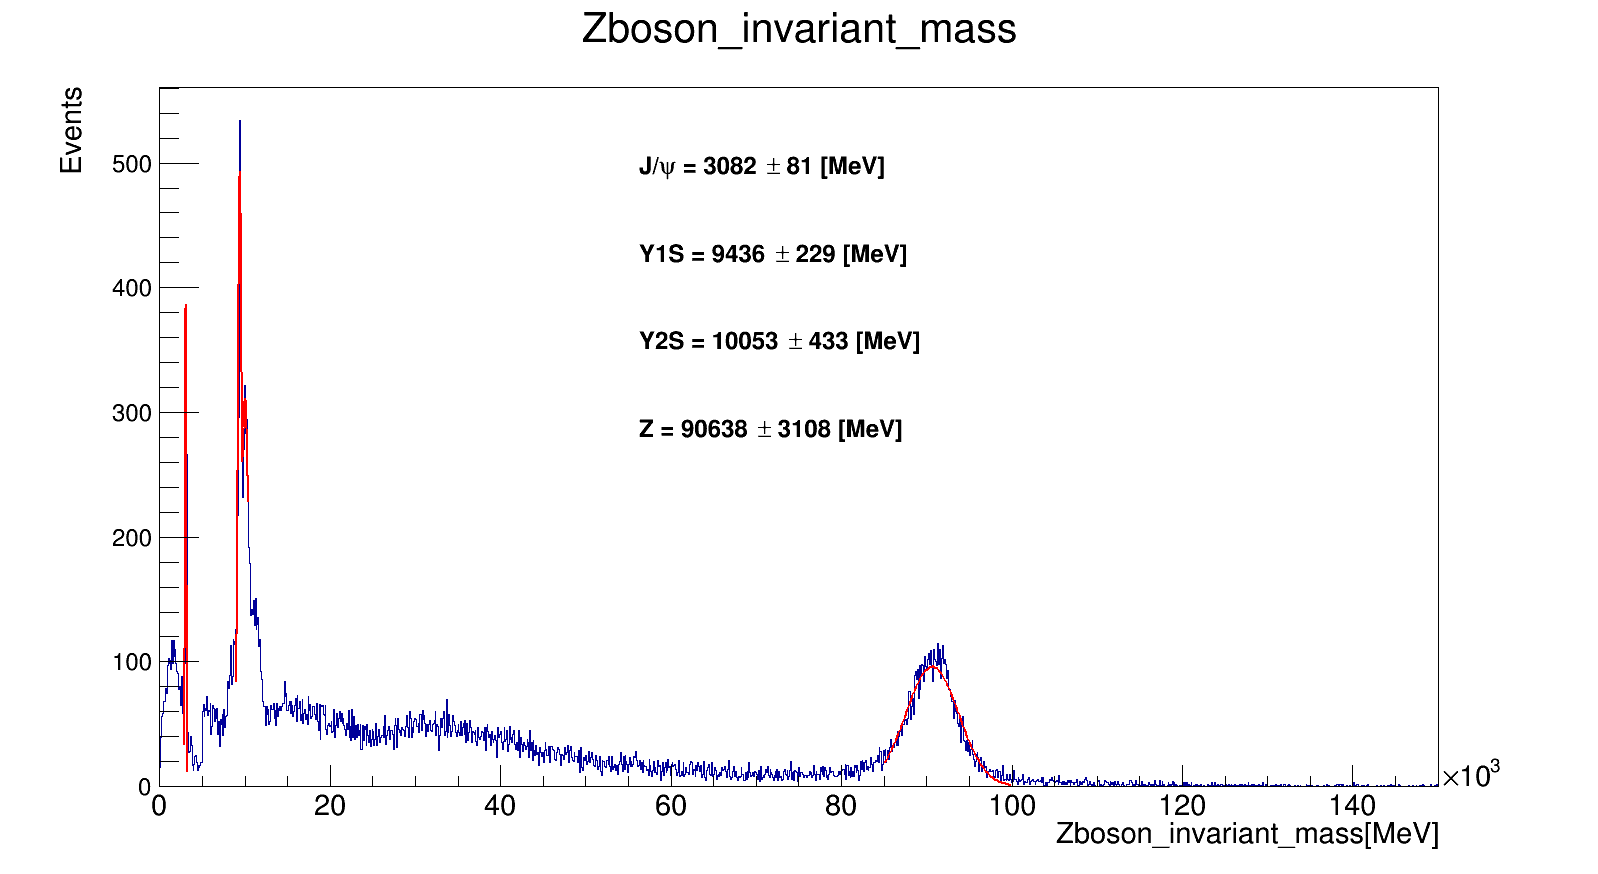
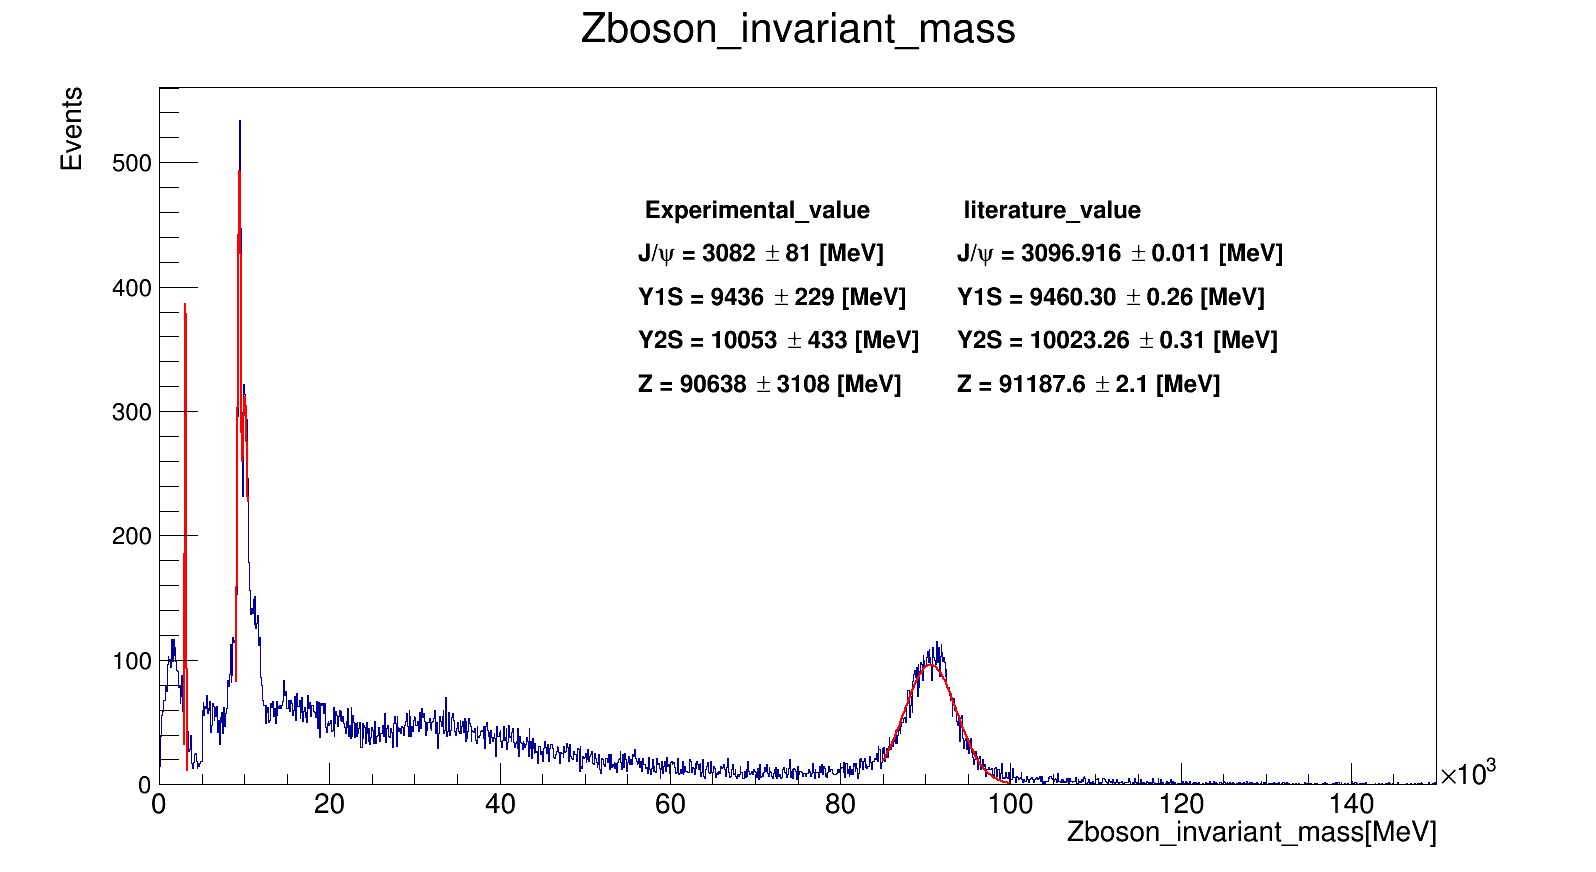
literature

diff --git a/muon_invariant_mass.cpp b/muon_invariant_mass.cpp
@@ -137,16 +137,16 @@ void muon_invariant_mass(){
   label_v_Y2S += "0.31 [MeV]";
   string label_v_Z = "Z = 91187.6 #pm ";  
   label_v_Z += "2.1 [MeV]";
-  //latex.DrawLatex(0.4,0.9,label_experiment.c_str());
-  latex.DrawLatex(0.4,0.8,label_JP.c_str());
-  latex.DrawLatex(0.4,0.7,label_Y1S.c_str());
+  latex.DrawLatex(0.4,0.75,label_experiment.c_str());
+  latex.DrawLatex(0.4,0.70,label_JP.c_str());
+  latex.DrawLatex(0.4,0.65,label_Y1S.c_str());
   latex.DrawLatex(0.4,0.6,label_Y2S.c_str());
-  latex.DrawLatex(0.4,0.5,label_Z.c_str());
-  //latex.DrawLatex(0.6,0.9,label_value.c_str());
-  latex.DrawLatex(0.6,0.8,label_v_JP.c_str());
-  latex.DrawLatex(0.6,0.7,label_v_Y1S.c_str());
+  latex.DrawLatex(0.4,0.55,label_Z.c_str());
+  latex.DrawLatex(0.6,0.75,label_value.c_str());
+  latex.DrawLatex(0.6,0.70,label_v_JP.c_str());
+  latex.DrawLatex(0.6,0.65,label_v_Y1S.c_str());
   latex.DrawLatex(0.6,0.6,label_v_Y2S.c_str());
-  latex.DrawLatex(0.6,0.5,label_v_Z.c_str());
+  latex.DrawLatex(0.6,0.55,label_v_Z.c_str());
   c1->SaveAs("zboson_invariant_mass[MeV].png");
   hist_m.Write();
   c1->Close();
